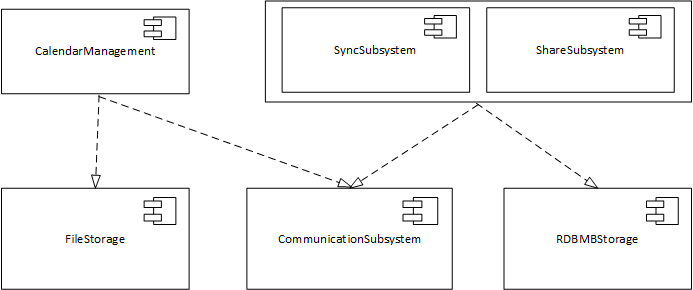
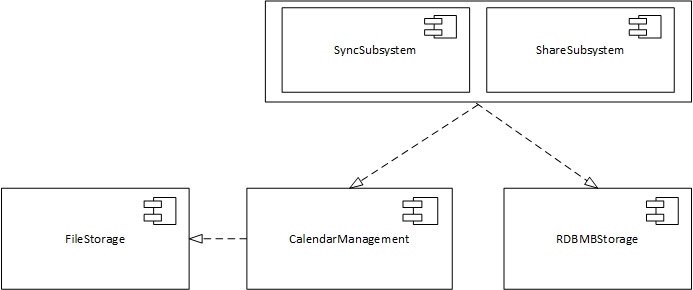
Changes in subsystem decomposition, hw/sw mapping and global software control.

diff --git a/LaTeX/SDDny/ProposedSoftwareArchitecture/hardwaresoftwaremapping.tex b/LaTeX/SDDny/ProposedSoftwareArchitecture/hardwaresoftwaremapping.tex
@@ -9,4 +9,4 @@ Our Calendar system is run by two devices. The user program run on the user comp
 \label{figur:UMLDeployment}
 \end{figure}
 
-Now that we have mapped our program to the hardware that is used to run our system we dicoverred that some informations had to be handled between the computer and the server. Therefore we have made up a Component Diagram with the subsystems. If we study the ‘CalendarManagement’ the ‘SyncSubsystem’ and the ‘ShareSubsystem’, we find that they all have instances of the same classes. This information kept in these instances has to be transfered from the computer to the server via a network connection. Here comes the ‘CommunicationSubsystem’ in play, this is our subsystem that handles the information and connection between the ‘SyncSubsystem’ and the ‘CalenderManagement’. ‘CommunicationSubsystem’ also handles the connection to the ‘ShareSubsystem’.
+Now that we have mapped our program to the hardware that is used to run our system we dicovered that some informations had to be handled between the computer and the server. Therefore we have made up a Component Diagram with the subsystems. If we study the ‘CalendarManagement’ the ‘SyncSubsystem’ and the ‘ShareSubsystem’, we find that classes related to synchronization and share have been kept seperated. The information from Model in CalendarManagement have to be transfered from the computer to the server via a network connection. The Controller in ‘CalendarManagement’ handles the communication between ‘CalendarManagement’ and ‘SyncSubsystem’ \& ‘ShareSubsystem’.

diff --git a/LaTeX/SDDny/ProposedSoftwareArchitecture/globalsoftwarecontrol.tex b/LaTeX/SDDny/ProposedSoftwareArchitecture/globalsoftwarecontrol.tex
@@ -12,6 +12,6 @@ In OOSE section 7.4.4 there is mentioned three types of control flow paradigms.
  
  \emph{CalendarManagement saves data locally through FileStorage.} When saving data locally it is procedure driven. Whenever FileStorage needs data it will wait for input from CalendarManagement.
  
- \emph{CommunicationManagement is the link between CalendarManagement and SyncSubsystem \& ShareSubsystem.} The control flow of the CommunicationManagement is event-driven.
+ \emph{CalendarManagement communicates with SyncSubsystem \& ShareSubsystem.} The control flow of the communication between the subsystems is event-driven.
  
  \emph{SyncSubsystem \& ShareSubsystem communicate through RDBMSStorage with the server}. The control flow of the RDBMSStorage is thread-driven since the subsystem both handles sharing with other users and synchronizing the local Calendars with the server. 

diff --git a/LaTeX/SDDny/SubsystemServices/subsystemservices.tex b/LaTeX/SDDny/SubsystemServices/subsystemservices.tex
@@ -1,3 +1,5 @@
+DET HELE SKAL LAVES OM HER!!!
+
 \begin{itemize}
 	\item ConnectionManager allows a subsystem to register with the CommunicationSubsystem and communicate.
 	\item CalculatorRequester allows a subsystem to request a list of available calendars and select among them.
